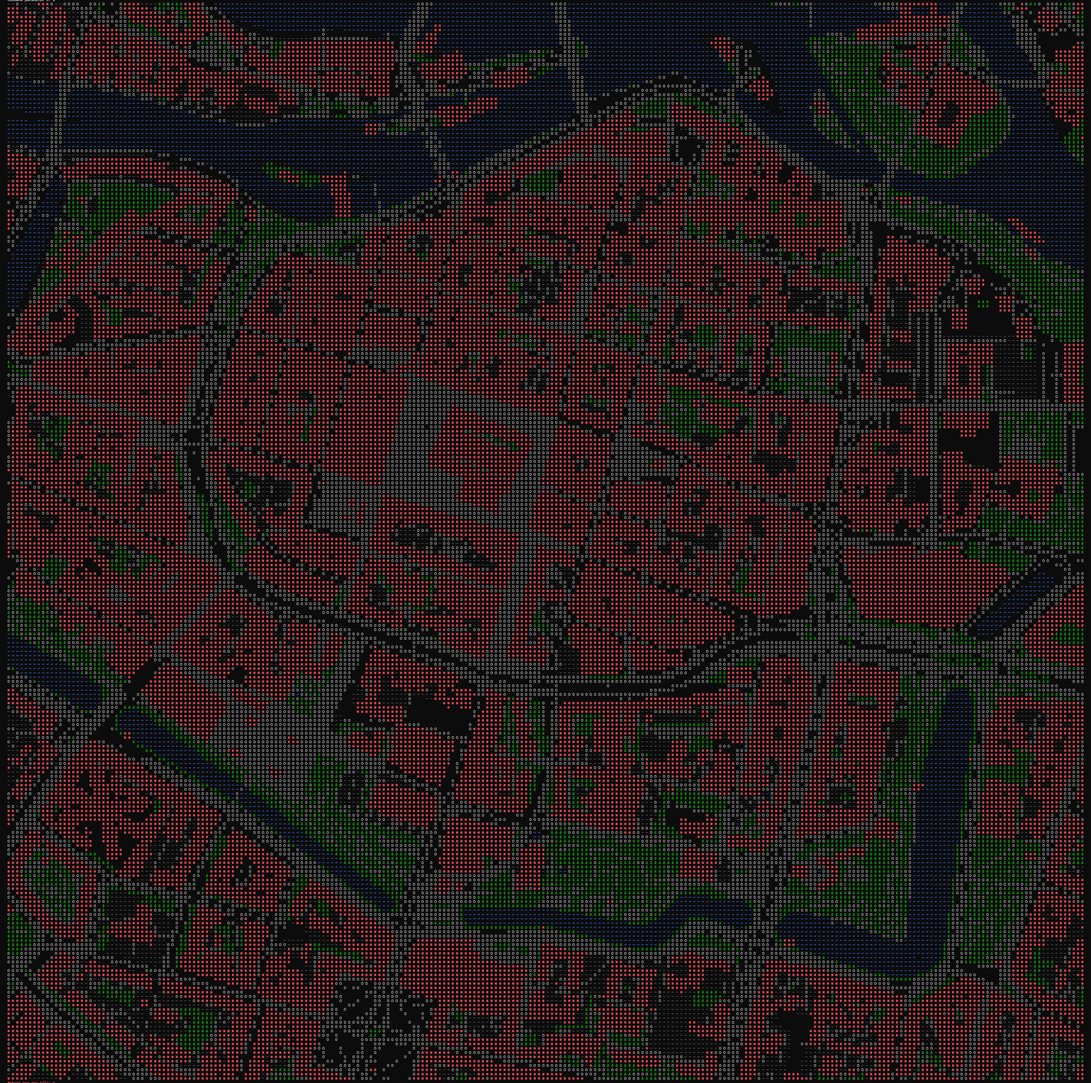
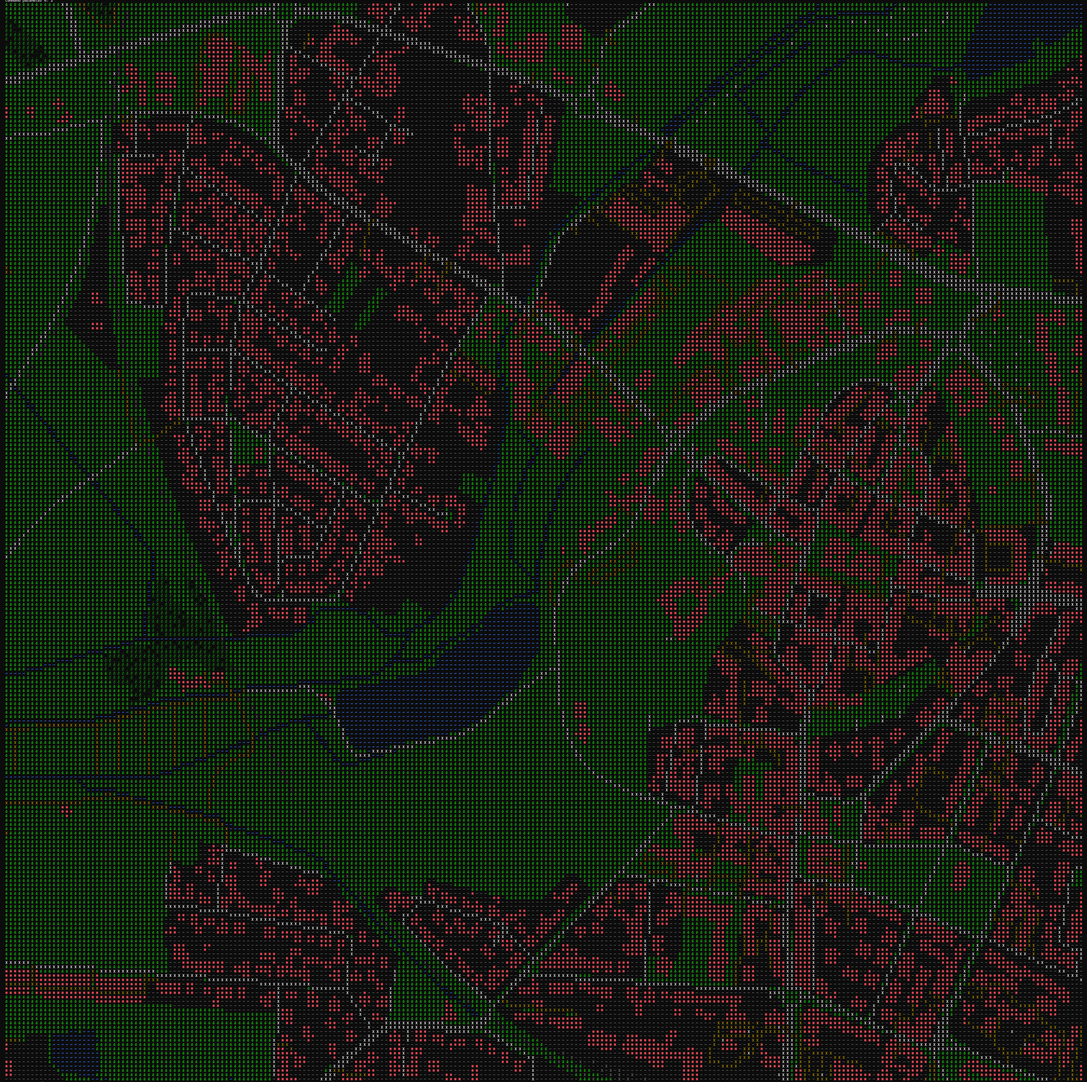
EuVer 0.1.0

diff --git a/world2pixel/source/mapqueryfunctions.cpp b/world2pixel/source/mapqueryfunctions.cpp
@@ -45,7 +45,7 @@ bool isbuilding(Features infeatures, std::pair<double,double> searchlatlon, doub
 
 bool iswater(Features infeatures, std::pair<double,double> searchlatlon, double tileside)
 {
-    infeatures = infeatures("*[water],*[natural=water]");
+    infeatures = infeatures("*[water],*[natural=water],*[waterway]");
 
     double radius = tileside*0.5;
 
@@ -131,15 +131,17 @@ bool israilroad(Features infeatures, std::pair<double,double> searchlatlon, doub
     return false;
 }
 
-bool isroad(Features infeatures, std::pair<double,double> searchlatlon, double tileside, int lanestosearch = 10, double lanewidth = 3.5, double scanradiusmodifier=1)
+int isroad(Features infeatures, std::pair<double,double> searchlatlon, double tileside, int lanestosearch = 10, double lanewidth = 3.5, double scanradiusmodifier=1)
 {
     infeatures = infeatures("*[highway]");
-    infeatures = infeatures("*[highway!=sidewalk,cycleway,footway]");
+    infeatures = infeatures("*[highway!=sidewalk,cycleway,footway,pedestrian,path]");
 
     double inlon = searchlatlon.second;
     double inlat = searchlatlon.first;
 
     double radius = lanewidth*0.5;
+
+    int typemodifier = 0;
 
     for(int i = 1; i < lanestosearch+1; i++)
     {
@@ -153,23 +155,27 @@ bool isroad(Features infeatures, std::pair<double,double> searchlatlon, double t
                 {
                     std::string key = curtag.key();
                     std::string value = curtag.value();
+                    if(key == "highway" && (value == "track" || value=="service"))
+                    {
+                        typemodifier = 1;
+                    }
                     if(key == "lanes")
                     {
                         lanespresent = true;
                         if(std::to_string(i) == value)
                         {
-                            return true;
+                            return 1+typemodifier;
                         }
                     }
                 }
-                if(i == 1 && !lanespresent) return true;
+                if(i == 1 && !lanespresent) return 1+typemodifier;
             }
         } //returns true when the Features inradius contains at least one feature
-        if(radius > tileside) return false;
+        if(radius > tileside) return 0;
         radius=radius+lanewidth*0.5;
     }
     
-    return false;
+    return 0;
 }
 
 /*

diff --git a/world2pixel/source/main.cpp b/world2pixel/source/main.cpp
@@ -34,7 +34,7 @@ int main(int argc, char* argv[])
     int tilesperside = 100;
     double side = 100;
     double roadscanmodifier = 1;
-    double railscanmodifier = 1;
+    double railscanmodifier = 2.5;
 
     if(argc>3)
     {
@@ -83,34 +83,39 @@ int main(int argc, char* argv[])
             {
                 cchange(8);
                 std::cout<<"X";
-            } else if(isbuilding(features,searchlatlon,tileside))
+            } else if(int retval = isroad(features,searchlatlon,tileside,10,3.5,roadscanmodifier); retval>0)
+            {
+                if(retval==1) cchange(15);
+                if(retval==2) cchange(6);
+                std::cout<<"X";
+            }  else if(isbuilding(features,searchlatlon,tileside))
             {
                 cchange(12);
                 std::cout<<char(254);
-            } else if(isroad(features,searchlatlon,tileside,10,3.5,roadscanmodifier))
-            {
-                cchange(7);
-                std::cout<<"O"; 
             } else if(iswater(features,searchlatlon,tileside))
             {
                 cchange(9);
                 std::cout<<"~";
-            } else if(istree_probability(features,searchlatlon,tileside)==1)
+            } else if(int retval = istree_probability(features,searchlatlon,tileside); retval>0)
             {
-                cchange(2);
-                std::cout<<".";
-            } else if(istree_probability(features,searchlatlon,tileside)==2)
-            {
-                cchange(2);
-                std::cout<<char(159);
-            } else if(islowgreenarea(features,searchlatlon,tileside))
-            {
-                cchange(10);
-                std::cout<<char(137);
+                if(retval==1)
+                {
+                    cchange(2);
+                    std::cout<<".";
+                }
+                if(retval==2)
+                {
+                    cchange(2);
+                    std::cout<<char(159);
+                }
             } else if(ispaved(features,searchlatlon,tileside))
             {
                 cchange(8);
                 std::cout<<"-";
+            }  else if(islowgreenarea(features,searchlatlon,tileside))
+            {
+                cchange(10);
+                std::cout<<char(137);
             }
             else
             {

diff --git a/world2pixel/source/mapqueryfunctions.h b/world2pixel/source/mapqueryfunctions.h
@@ -1,4 +1,4 @@
-bool isroad(Features infeatures, std::pair<double,double> searchlatlon, double tileside, int lanestosearch = 10, double lanewidth = 3.5, double scanradiusmodifier = 1);
+int isroad(Features infeatures, std::pair<double,double> searchlatlon, double tileside, int lanestosearch = 10, double lanewidth = 3.5, double scanradiusmodifier = 1);
 bool iswater(Features infeatures, std::pair<double,double> searchlatlon, double tileside);
 bool isbuilding(Features infeatures, std::pair<double,double> searchlatlon, double tileside);
 bool islowgreenarea(Features infeatures, std::pair<double,double> searchlatlon, double tileside);

diff --git a/README.md b/README.md
@@ -1,8 +1,14 @@
 # world2pixel
+<b>
+Release date: 2025.05.28
+
+CLI version: 0.1.0
+
+EuVer version: 0.1.0
+</b>
 
 Small command-line utility to render maps in terminal. Requires a GOL object from Geodesk. Currently only tested for windows, but porting to linux should be really easy, and will eventually be done.
 
-## Usage:
 First, make sure you have a GOL object created using Geodesk for the part of the world you want to use. See: https://docs.geodesk.com/gol/build.
 Put the GOL file next to the exe. Then in the terminal you can use this command to run the program:
 
@@ -10,14 +16,18 @@ Put the GOL file next to the exe. Then in the terminal you can use this command 
 
 As of now, the program excels at renders with a high resolution (a lot of tiles) and small area. I have included examples of both a large-scale render (50kmx50km @ 200x200 tiles) and a smaller one (1.5kmx1.5km @ 250x250 tiles).
 
-Proper tweaking of road and rail factors helps ensure a good render.
+Proper tweaking of road and rail factors helps ensure a good render. Tweaking the road and rail factor messes with the proper scaling of road width. (A road may appear as 15m in width on the render, while in reality it is 10m.) If you wish to keep road width in 1:1 scale, do not use the factors.
 
-### Examples:
+As the image is currently rendered in console, the way it appears will depend on your terminal application. The following screenshots are from the Terminal application from Microsoft Store. As they are screenshots, the quality may be lower than it would appear.
+
+For now, you cannot properly use this program on higher amount of tiles, if you cannot scale the view in your terminal.
+
+## Examples:
 
 ### Small scale:
 
-`.\world2pixel.exe 51.11573, 17.02310 250 1500 1.1 2`  renders the following map (assuming a file called gol.gol exists in current directory, and it contains data for Wroclaw):
-![Wroclaw](world2pixel.png)
+`.\world2pixel.exe 51.21654, 17.36196 250 1500 1.7 2`  renders the following map (assuming a file called gol.gol exists in current directory, and it contains data for Wroclaw):
+![alt text](world2pixel.png)
 
 Comparing it to the OSM render:
 
@@ -25,11 +35,11 @@ Comparing it to the OSM render:
 
 ### Large scale:
 
-`.\world2pixel.exe 51.303 16.578 200 50000 50 300`
+`.\world2pixel.exe 51.369433 17.463128 500 25000 10 40`
 
-![alt text](world2pixel50km.png)
+![alt text](world2pixel25km.png)
 
-![alt text](osm50km.png)
+![alt text](osm25km.png)
 
 # Made with love by Hubert Gonera 2025.
 

diff --git a/CHANGELOG.md b/CHANGELOG.md
@@ -1,0 +1,7 @@
+## CLI: 0.1.0 EuVer: 0.1.0
+*2025.05.28*
+
+**Changes:**
+* First "official" working version.
+* Tested only on Windows 10, on the Terminal app from Microsoft Store.
+* Basic Pixel-art rendering with constant render settings and colors.
